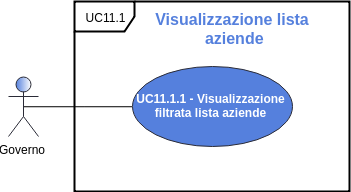
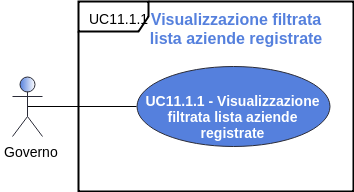
fix immagine VisualizzazioneFiltrata, spostata da UC11.1 a UC11.1.1

Changed region(s): [[0.0285, 0.0, 0.9402, 1.0], [0.9687, 0.0, 1.0, 1.0], [0.0, 0.75, 0.1709, 0.8438]]

diff --git a/RR/Esterni/Analisi_dei_requisiti/res/sections/UC/UC11-GestioneUtenti.tex b/RR/Esterni/Analisi_dei_requisiti/res/sections/UC/UC11-GestioneUtenti.tex
@@ -21,12 +21,7 @@
  \end{itemize}
 
 \subsubsection{UC11.1 - Visualizzazione lista aziende registrate}
-\begin{figure}[H]
-	\includegraphics[width=7cm]{res/images/UC11-VisualizzazioneFiltrata.png}
-	\centering
-	\caption{UC11 - Visualizzazione lista aziende registrate}
-	
-\end{figure}
+
  \begin{itemize}
 	\item \textbf{Attori Primari}: governo;
 	\item \textbf{Descrizione}: il governo visualizza la lista delle aziende registrate alla piattaforma. Per ogni azienda sono rese disponibili le seguenti informazioni:
@@ -59,6 +54,11 @@
 \end{itemize}
 
 \subsubsection{UC11.1.1 - Visualizzazione filtrata lista aziende registrate}
+\begin{figure}[H]
+	\includegraphics[width=7cm]{res/images/UC11-VisualizzazioneFiltrata.png}
+	\centering
+	\caption{UC11 - Visualizzazione filtrata lista aziende registrate}
+\end{figure}
 \begin{itemize}
 	\item \textbf{Attori Primari}: governo;
 	\item \textbf{Descrizione}: il governo visualizza la lista delle aziende registrate alla piattaforma, filtrate secondo il valore del campo \texttt{stato del pagamento del saldo IVA}. I possibili valori per filtrare i risultati per tale campo sono i seguenti:
